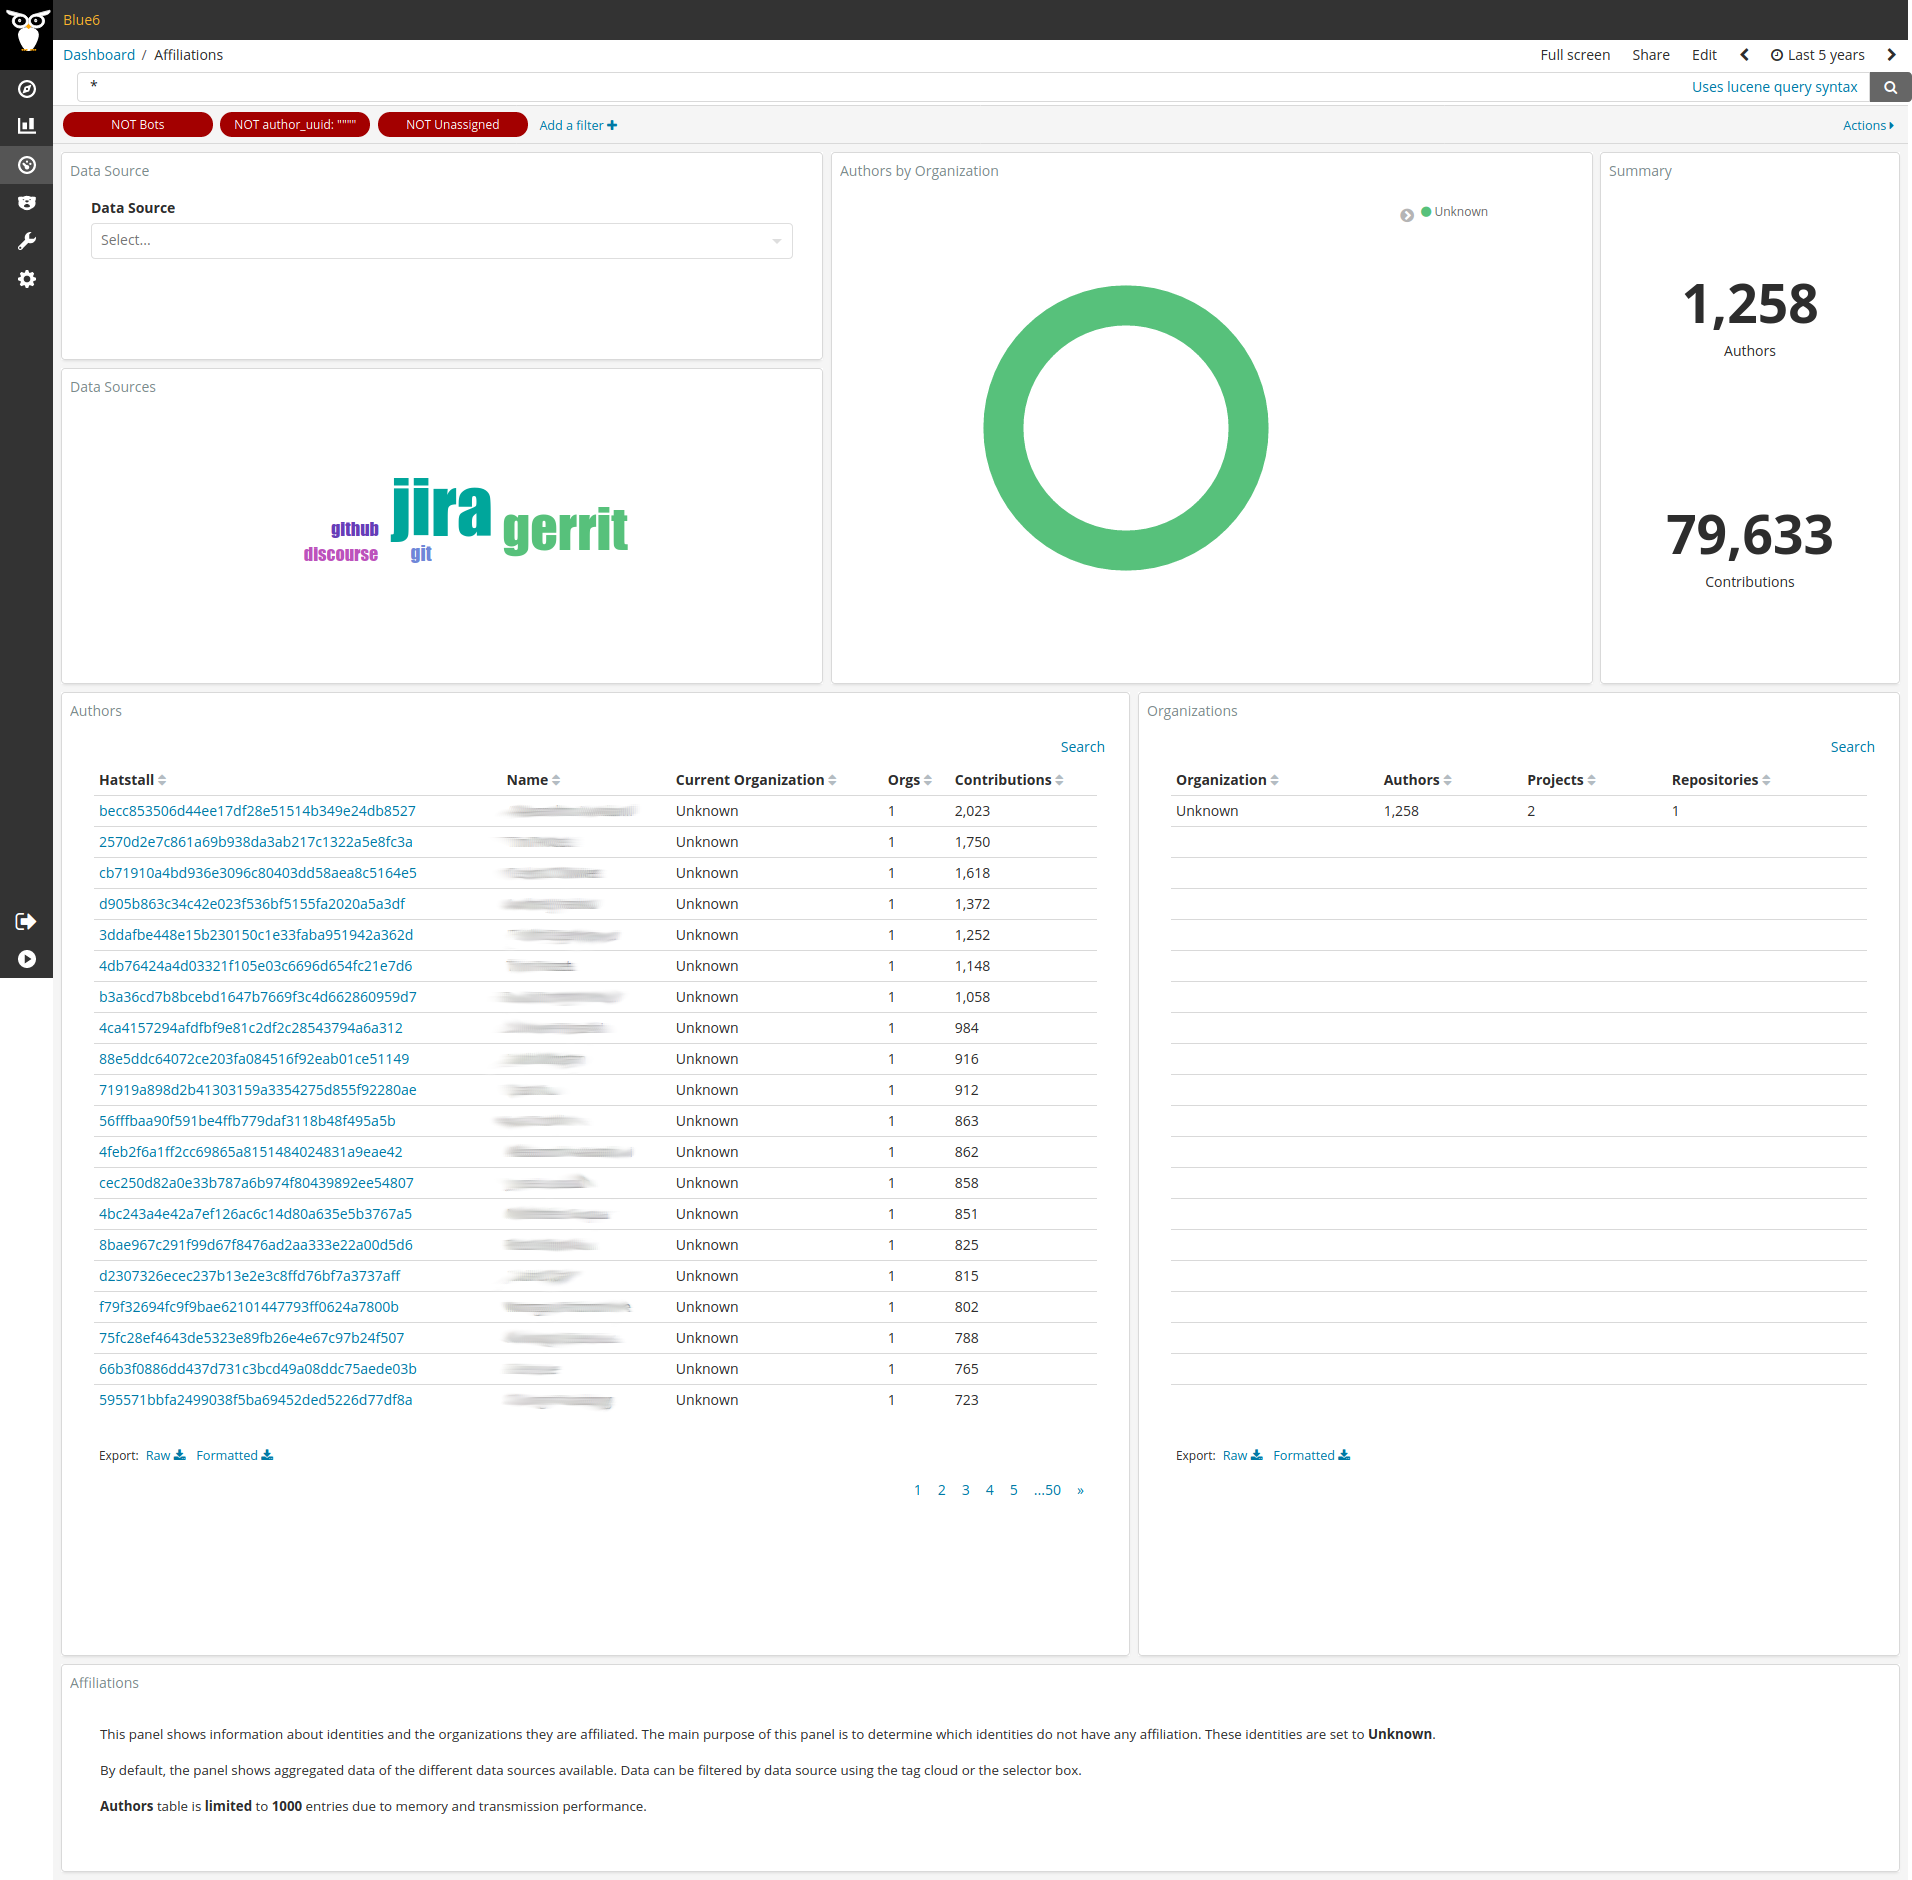
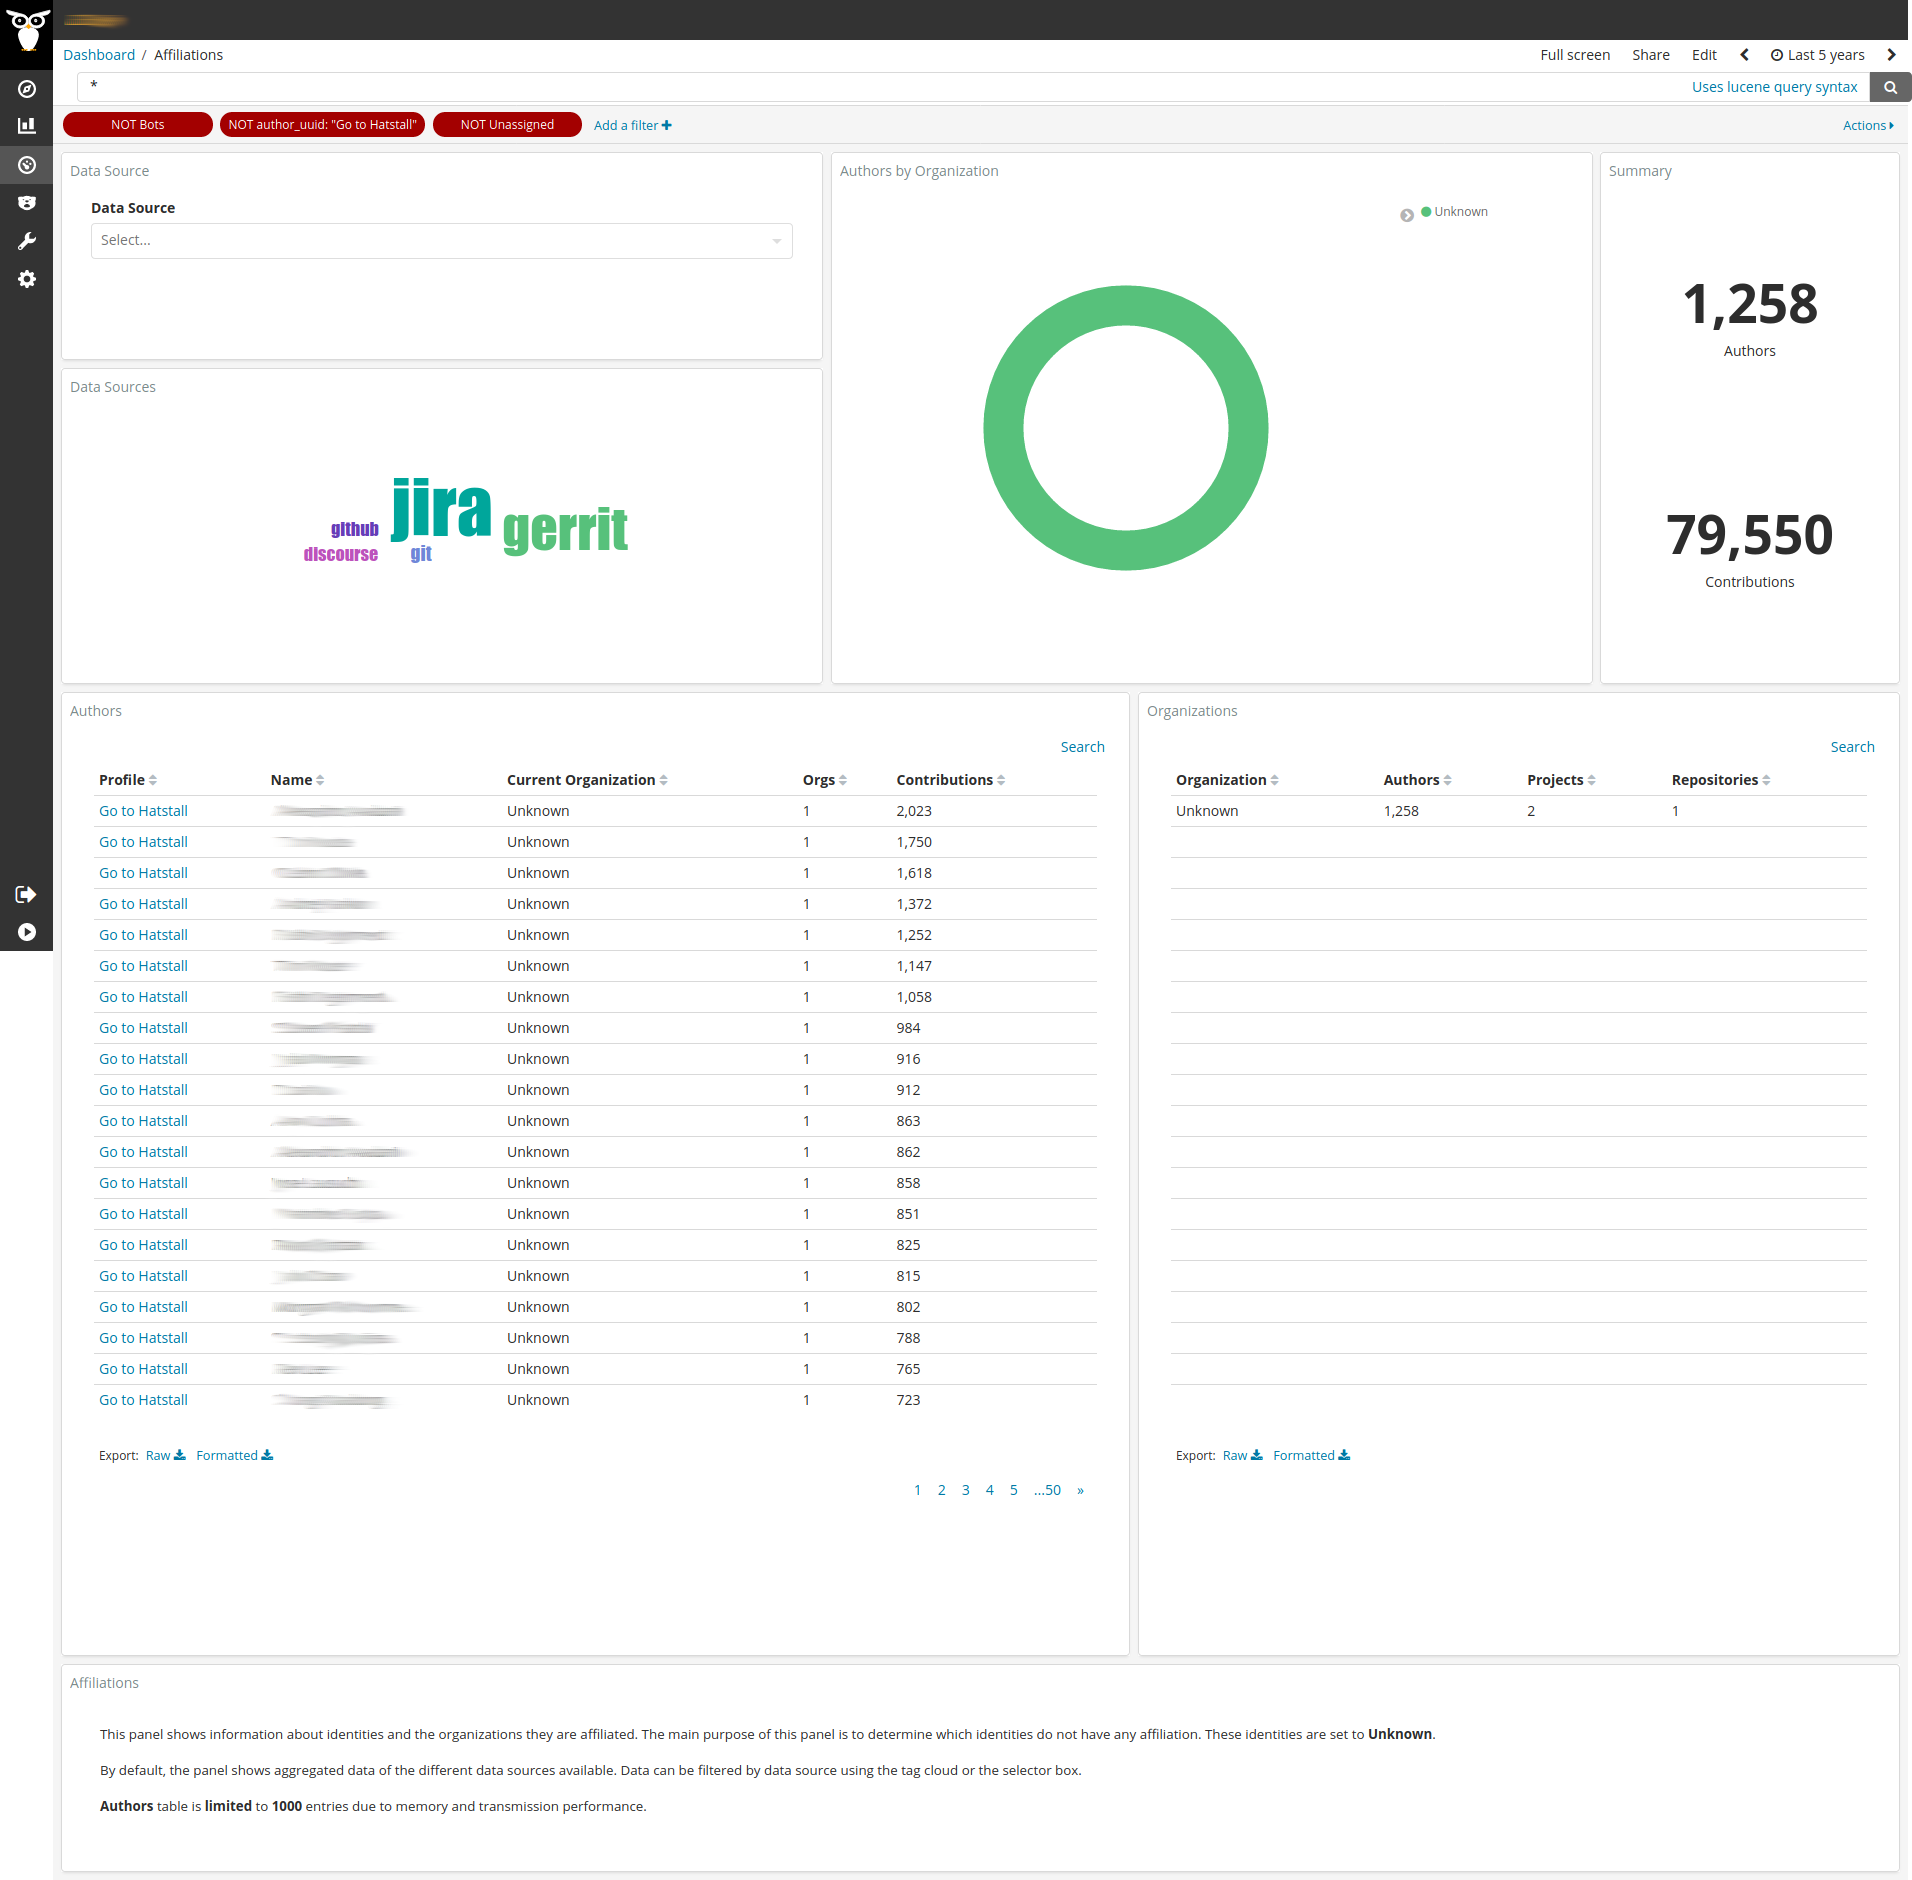
Update Affiliations documentation
As the dashboard has been modified, these small changes keep
the screenshot and the text in sync.

diff --git a/docs/_panels/affiliations.md b/docs/_panels/affiliations.md
@@ -21,9 +21,9 @@ From left to right and top to bottom, the widgets provided are:
     allows filtering in data sources by clicking on them. For selecting several at the same time, 
     please use `Data Source` widget instead (or add a filter manually on top).
 * **Authors**: table to search from the most active contributors. By correctly affiliating the most
-    active ones we quickly improve the results of the pie chart and by extension of our analysis in
-    all other dashboards. Column titled `Hatstall` provides direct links to the corresponding profile
-    page on Hatstall web app, where affiliations may be queried and modified.
+    active ones we will quickly improve the results of the pie chart and, by extension, of our analysis in
+    all other dashboards. The column titled `Profile` provides direct links to the corresponding
+    page on **Hatstall** web app, where affiliations may be queried and modified.
 * **Organizations**: table providing information at the level of organization. Offers more detail than
     the pie chart.
      
